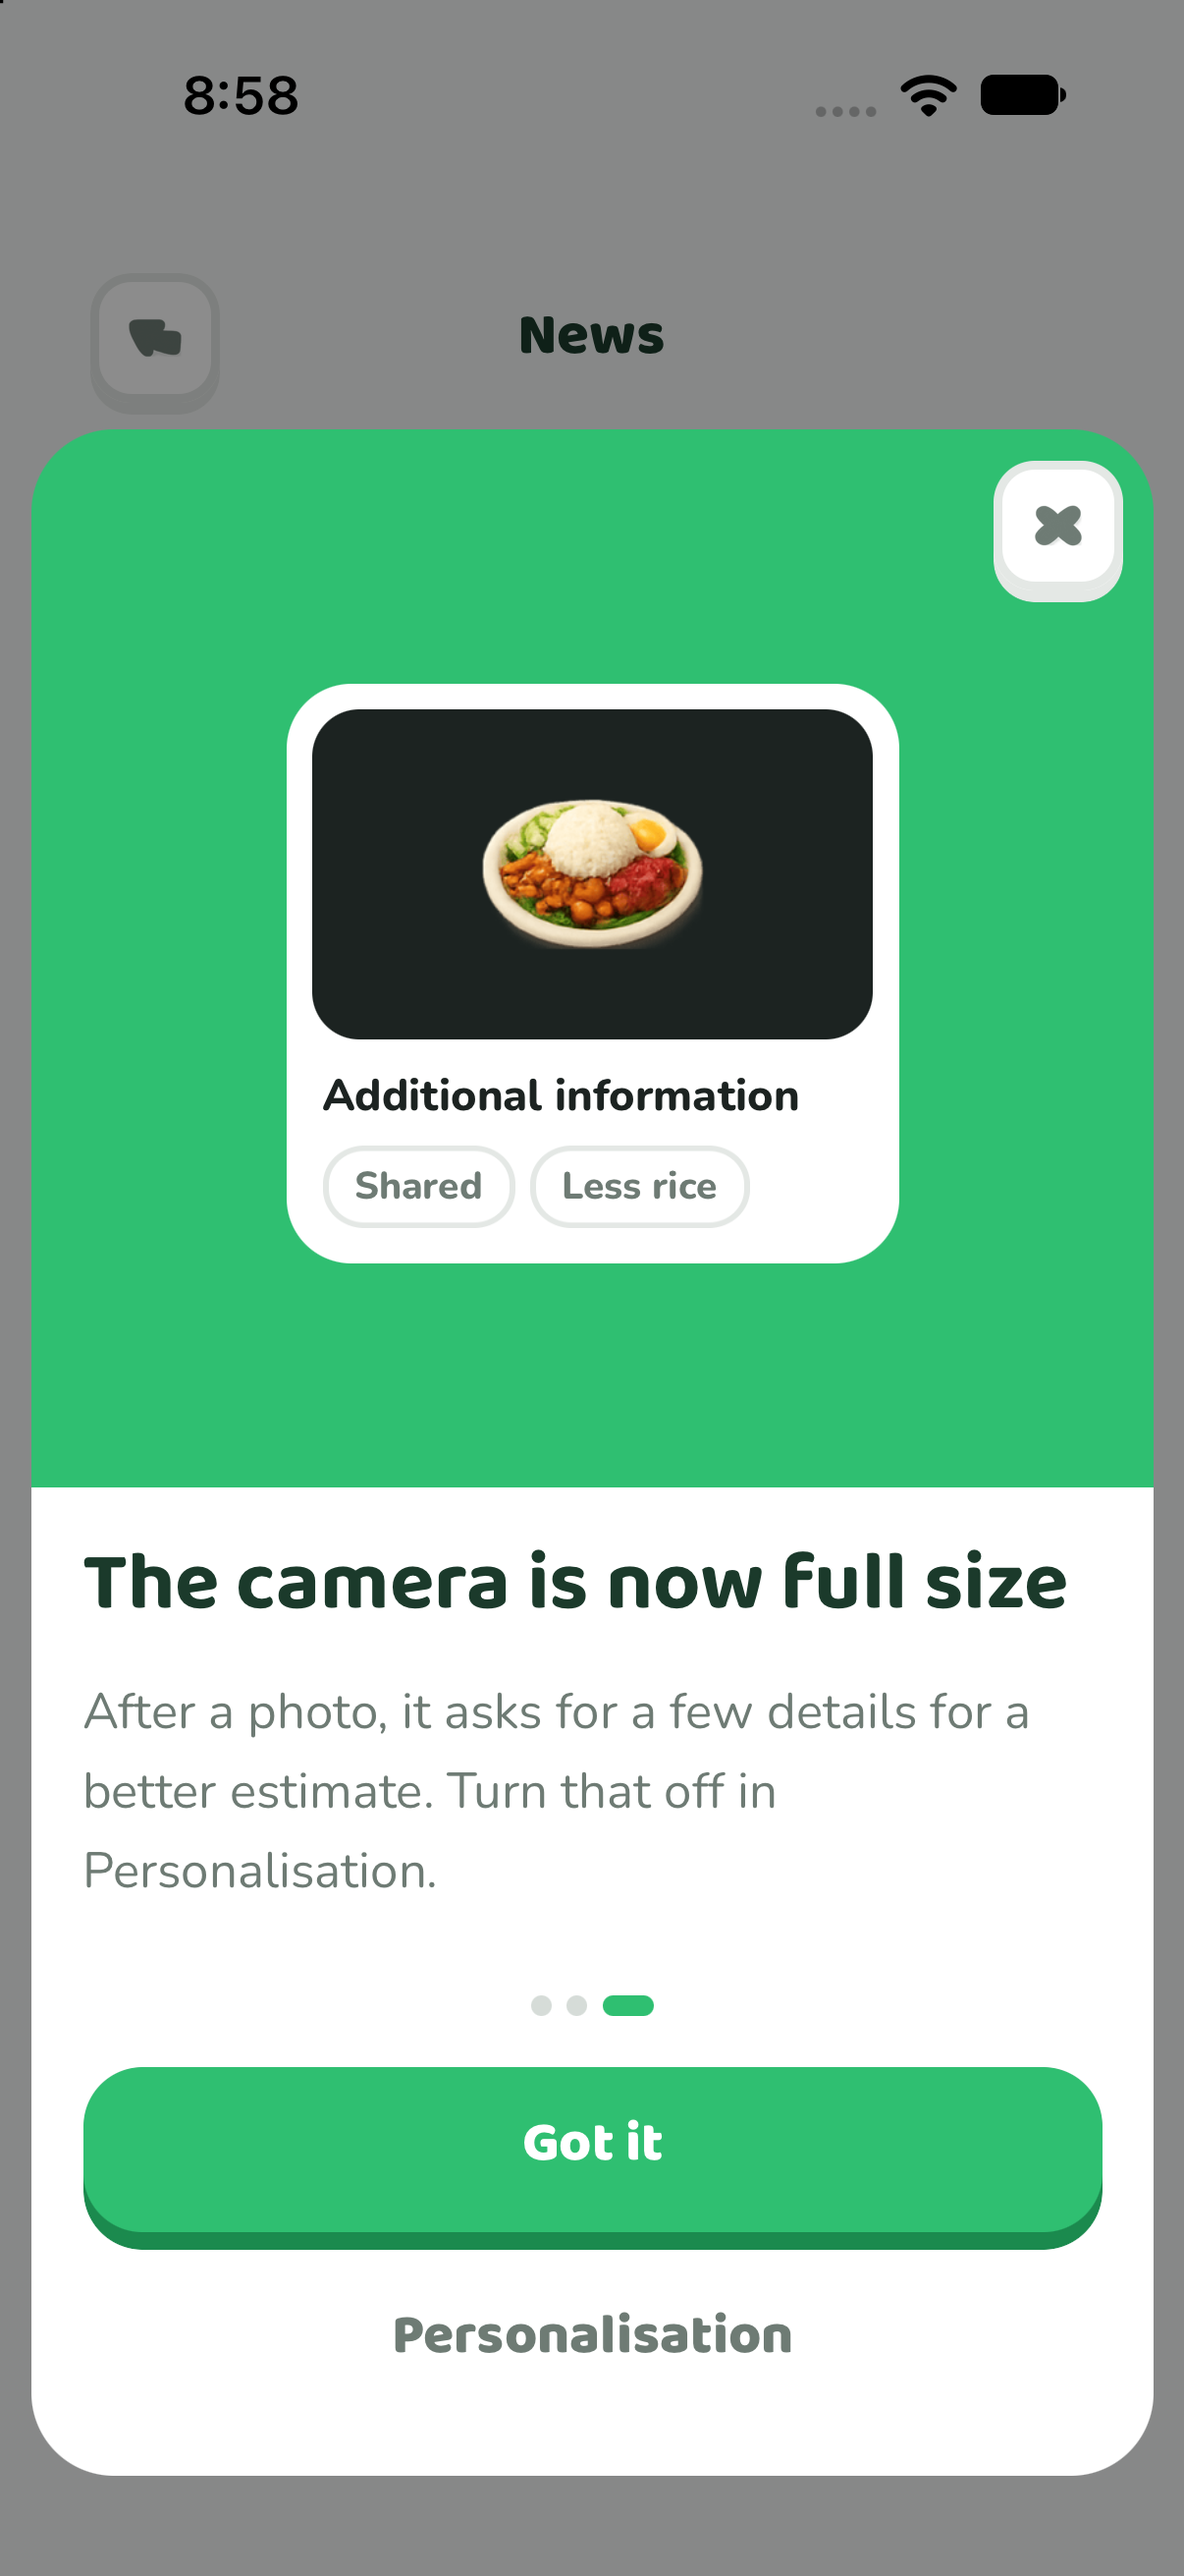
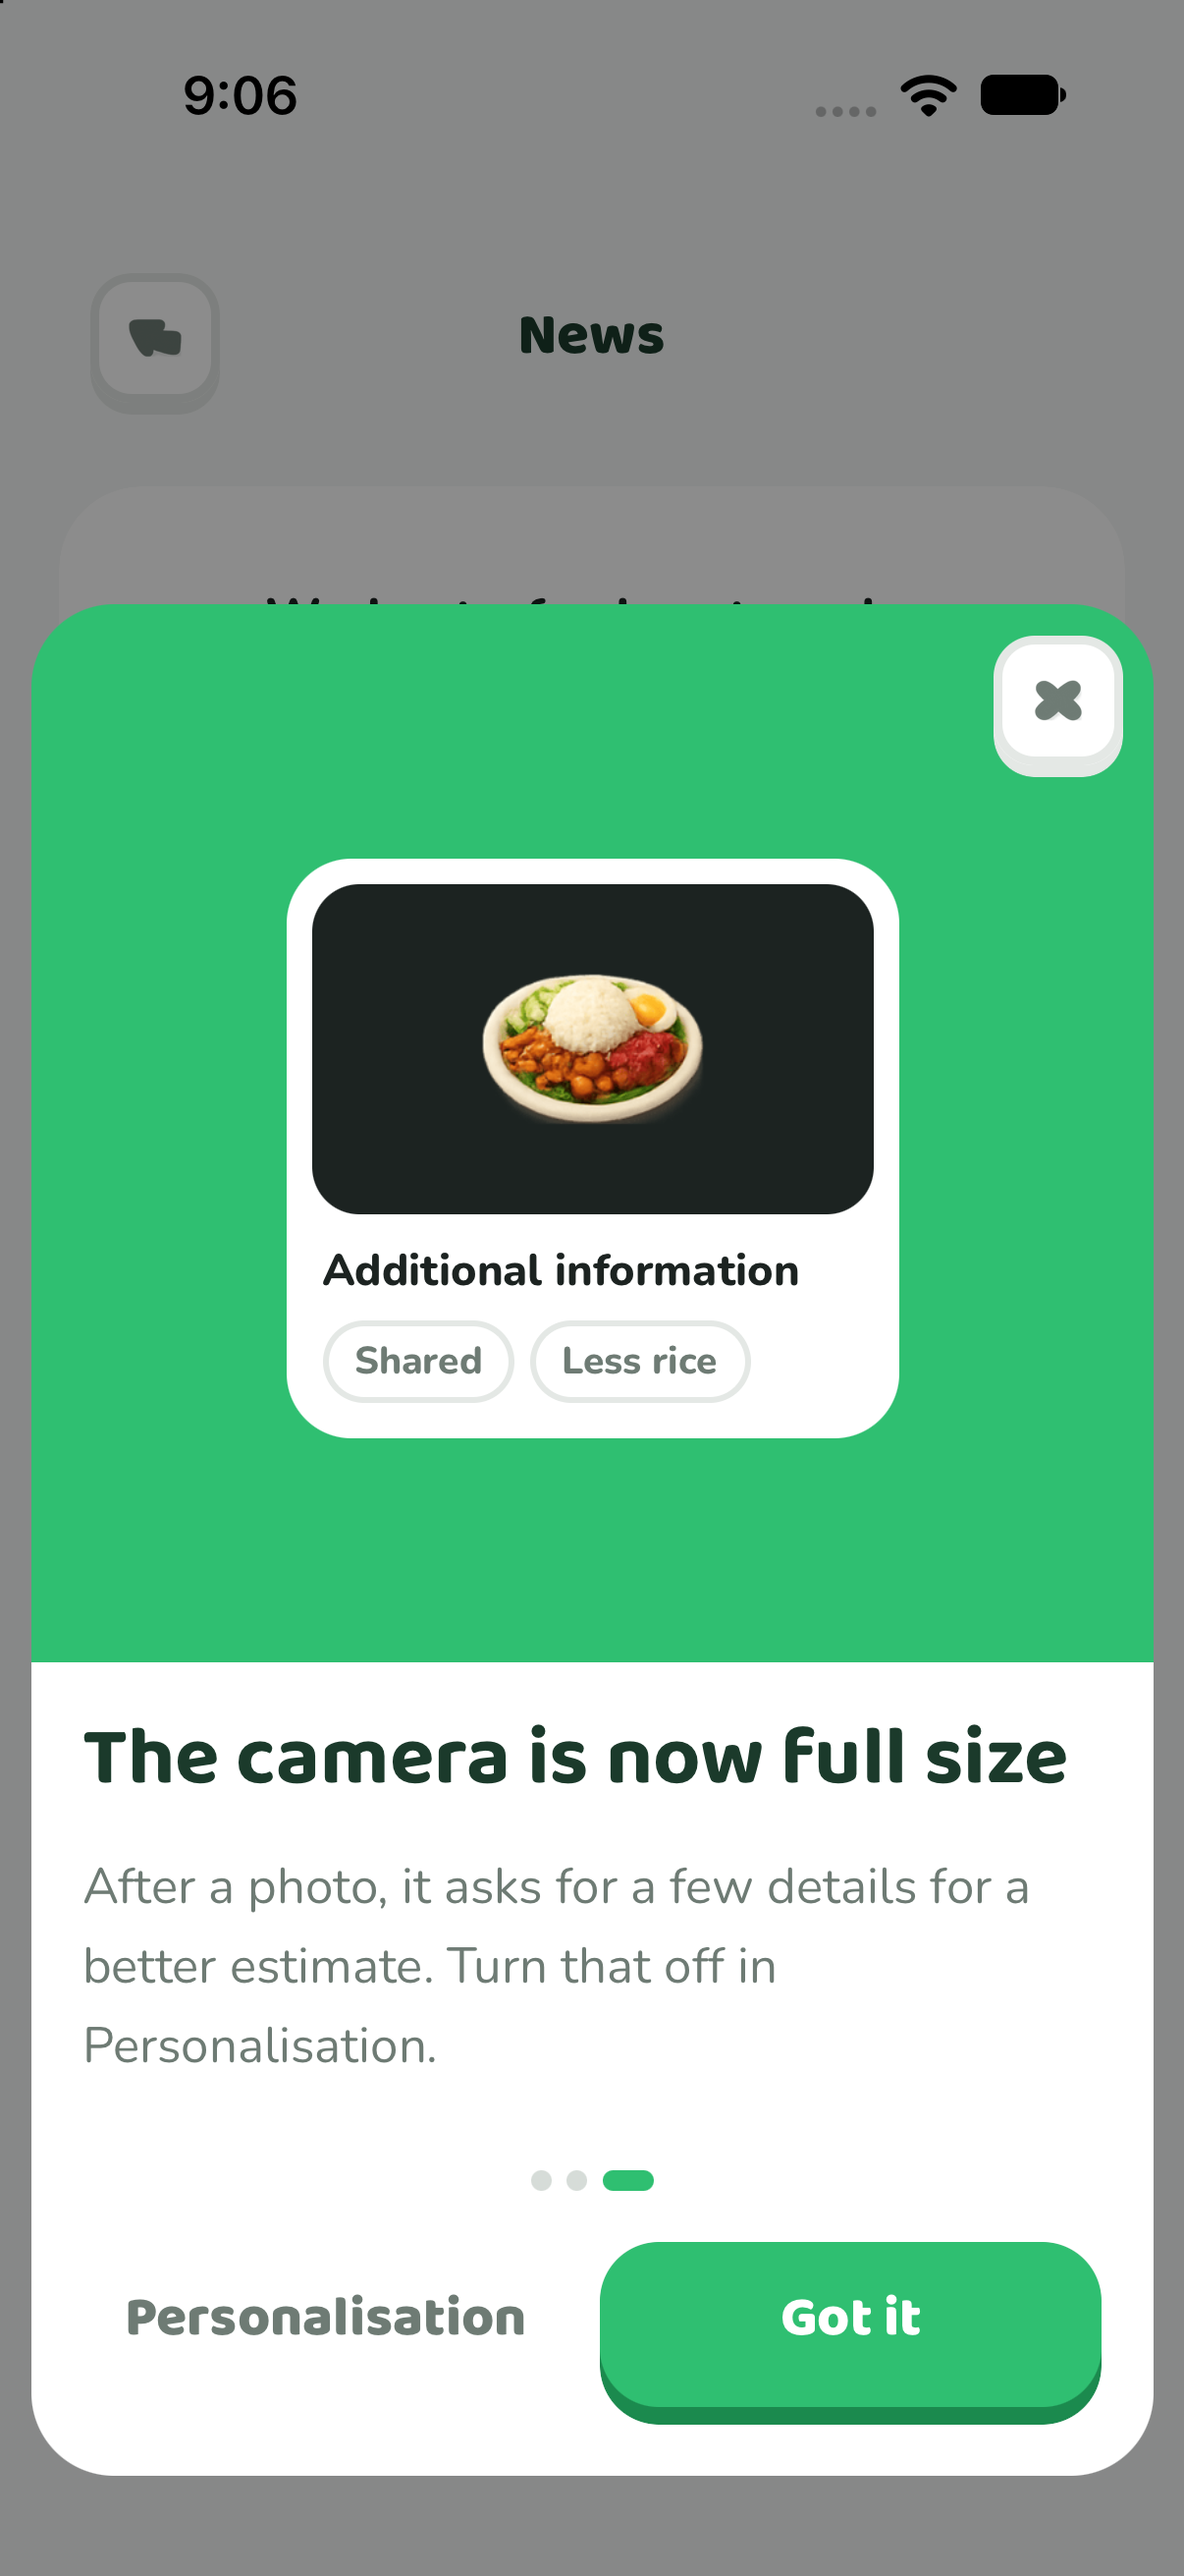
Drop the workouts page's button and put a page's button beside Next

diff --git a/apps/mobile/src/features/news/AnnouncementCard.tsx b/apps/mobile/src/features/news/AnnouncementCard.tsx
@@ -34,7 +34,6 @@ import { WorkoutsPreview } from './WorkoutsPreview'
  */
 const CTAS = {
   edit_profile: { route: '/settings/account', label: 'social:editProfile' },
-  workouts: { route: '/workouts', label: 'common:nav.workouts' },
   personalisation: { route: '/settings/personalisation', label: 'profile:personalisation.title' },
 } as const satisfies Record<AnnouncementCta, { route: Href; label: string }>
 
@@ -69,8 +68,8 @@ const SIDE = 12
  * list; later ones find it seen and change nothing.
  *
  * A release with several changes is one card of pages, swiped or stepped
- * through with Next, each with its own button under it and "Got it" on the
- * last. One card rather than several because only the newest is ever put up.
+ * through with Next, a page's own button (where it has one) beside it and
+ * "Got it" on the last. One card rather than several because only the newest is ever put up.
  *
  * Every way out is counted, with the page it happened on, since "did anyone
  * take the button" and "how far did they read" are the questions an
@@ -287,15 +286,25 @@ export function AnnouncementCard({
                 ))}
               </View>
             ) : null}
-            <View className="gap-1 px-5 pb-5 pt-5">
-              <Button fullWidth onPress={last ? () => close('done') : next}>
-                {last ? t('news:done') : t('news:next')}
-              </Button>
+            {/* A page's own button beside Next rather than under it, the way
+                the photo note puts Skip beside Log: the way on is the big
+                one, and the detour is there without a second row. */}
+            <View className="flex-row items-center gap-3 px-5 pb-5 pt-5">
               {current.cta ? (
-                <Button fullWidth variant="ghost" onPress={takeCta}>
+                // At most half the row: some languages name these screens at
+                // length, and Next keeps its width however long the name is.
+                <Button
+                  variant="ghost"
+                  onPress={takeCta}
+                  className="max-w-[50%] shrink"
+                  contentClassName="px-4"
+                >
                   {t(CTAS[current.cta].label)}
                 </Button>
               ) : null}
+              <Button className="flex-1" onPress={last ? () => close('done') : next}>
+                {last ? t('news:done') : t('news:next')}
+              </Button>
             </View>
           </ScrollView>
           <View className="absolute right-3 top-3">

diff --git a/apps/mobile/src/features/news/__tests__/AnnouncementCard.test.tsx b/apps/mobile/src/features/news/__tests__/AnnouncementCard.test.tsx
@@ -114,10 +114,12 @@ it('counts the button, closes, and opens Edit profile once the card has gone', a
   }
 })
 
-it('steps through the pages with Next, each offering its own button, and ends on "Got it"', async () => {
+it('steps through the pages with Next, offering a page\'s button where it has one, and ends on "Got it"', async () => {
   await render(<AnnouncementCard announcement={feed} source="launch" onClose={jest.fn()} />)
   await presented()
-  expect(screen.getByText('common:nav.workouts')).toBeTruthy()
+  // The workouts page has no button of its own: Next and the cross only.
+  expect(screen.queryByText('social:editProfile')).toBeNull()
+  expect(screen.queryByText('profile:personalisation.title')).toBeNull()
   expect(screen.queryByText('news:done')).toBeNull()
   await toPage(2)
   expect(screen.getByText('social:editProfile')).toBeTruthy()
@@ -140,7 +142,7 @@ it('starts every showing on the first page', async () => {
     <AnnouncementCard announcement={feed} source="settings" onClose={jest.fn()} />,
   )
   expect(screen.getByText('news:next')).toBeTruthy()
-  expect(screen.getByText('common:nav.workouts')).toBeTruthy()
+  expect(screen.queryByText('news:done')).toBeNull()
 })
 
 it('names the Apple Watch on iOS only', async () => {
@@ -173,7 +175,8 @@ it('counts one answer per showing, however fast the taps', async () => {
   const onClose = jest.fn()
   await render(<AnnouncementCard announcement={feed} source="launch" onClose={onClose} />)
   await presented()
-  await fireEvent.press(screen.getByText('common:nav.workouts'))
+  await toPage(2)
+  await fireEvent.press(screen.getByText('social:editProfile'))
   await fireEvent.press(screen.getAllByLabelText('common:a11y.close')[0])
   expect(track).toHaveBeenCalledTimes(2)
   expect(track).toHaveBeenLastCalledWith('Announcement CTA Tapped', expect.anything())

diff --git a/apps/mobile/src/features/news/announcements.ts b/apps/mobile/src/features/news/announcements.ts
@@ -12,12 +12,13 @@
 export type AnnouncementSource = 'launch' | 'settings'
 
 /** Where a page's button leads, named for analytics. */
-export type AnnouncementCta = 'edit_profile' | 'workouts' | 'personalisation'
+export type AnnouncementCta = 'edit_profile' | 'personalisation'
 
 /** One page of an announcement, swiped through in order. */
 export type AnnouncementPage = {
   /** `news:<key>` holds its title and body, and names its picture. */
   key: 'workouts' | 'feedAutoShare' | 'photoNote'
+  /** Only where there is a switch or a screen worth going to; most pages need none. */
   cta?: AnnouncementCta
 }
 
@@ -54,7 +55,7 @@ export const ANNOUNCEMENTS: readonly Announcement[] = [
     key: 'update110',
     releaseDate: '2026-10-16',
     pages: [
-      { key: 'workouts', cta: 'workouts' },
+      { key: 'workouts' },
       { key: 'feedAutoShare', cta: 'edit_profile' },
       { key: 'photoNote', cta: 'personalisation' },
     ],

diff --git a/apps/mobile/src/features/news/__tests__/announcements.test.ts b/apps/mobile/src/features/news/__tests__/announcements.test.ts
@@ -52,7 +52,7 @@ it('switches auto post on with the 1.1.0 announcement, whose feed page links to 
   const update = ANNOUNCEMENTS.find((a) => a.id === 'feed_auto_share_2026_10')
   expect(update?.enables).toEqual({ autoPostFoods: true })
   expect(update?.pages.map((page) => [page.key, page.cta])).toEqual([
-    ['workouts', 'workouts'],
+    ['workouts', undefined],
     ['feedAutoShare', 'edit_profile'],
     ['photoNote', 'personalisation'],
   ])

diff --git a/README.md b/README.md
@@ -5302,8 +5302,10 @@ with the copy under the `news` namespace in all thirteen languages. Adding one
 is an entry there, its copy, and a picture for each new page in
 `AnnouncementCard`'s `PICTURES`.
 
-A card with several pages is swiped, or stepped with **Next**; the page's own
-button sits under Next, and the last page's Next is **Got it**. Each showing
+A card with several pages is swiped, or stepped with **Next**; a page's own
+button, where it has one, sits beside Next, and the last page's Next is
+**Got it**. Most pages need no button: give one only where there is a switch or
+a screen worth going to. Each showing
 starts on the first page. A release with several changes is one card of pages
 rather than several cards, since only the newest is ever put up (below). A page
 can have a different body on iOS (`IOS_BODIES`), which is how the workouts page
@@ -5352,8 +5354,8 @@ names the Apple Watch there and nowhere else: the watch app is iOS only.
 
 ### 1.1.0, the first announcement
 
-`feed_auto_share_2026_10` is three pages: workouts (its button opens the
-Workouts tab; on iOS the body adds the Apple Watch), meals posting to the feed,
+`feed_auto_share_2026_10` is three pages: workouts (no button; on iOS the body
+adds the Apple Watch), meals posting to the feed,
 and the full-size camera with its question after a photo (its button opens
 Personalisation, where that question's switch is). It is named for its first
 draft, the feed page alone, which reached TestFlight builds of 1.0.15 but no
@@ -5855,7 +5857,7 @@ user text. Extend the source type and these tables together when its domain chan
 | Widget water `preset` | Home-screen action preset volume | Widget action choice; no daily water total or diary history |
 | `announcement` | An id from `features/news/announcements.ts`, lowercase letters, digits and underscores (checked by `see_announcements`); currently `feed_auto_share_2026_10` | Never free text; a renamed id is a new announcement |
 | `source` / `AnnouncementSource` | `launch`, `settings` | `launch` is the card the app puts over Today; `settings` is one opened from the News list under Me |
-| `cta` / `AnnouncementCta` | `workouts`, `edit_profile`, `personalisation` | Where a page's button leads, named for analytics; a tap, not a changed setting |
+| `cta` / `AnnouncementCta` | `edit_profile`, `personalisation` | Where a page's button leads, named for analytics; a tap, not a changed setting |
 | Announcement `via` | `done` ("Got it" on the last page), `close` (cross, scrim or back gesture) | Closing without a page's button |
 | Announcement `page` | The page, from 1, that the button was tapped or the card closed on | How far people read is `Dismissed` broken down by `page`; `done` is always the last page |
 | Auto post `kind`, `enabled` | `foods` or `workouts`; the new switch value | Edit profile switches only; onboarding's default and the announcement's switch-on send nothing |
